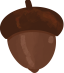
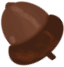
Refinado puntero bellota

diff --git a/La_Rata_Tostada_se_va_por_las_Ramas/Assets/Scripts/ChangeCursor.cs b/La_Rata_Tostada_se_va_por_las_Ramas/Assets/Scripts/ChangeCursor.cs
@@ -7,6 +7,6 @@ public class ChangeCursor : MonoBehaviour
     [SerializeField] private Texture2D cursor; 
     void Start()
     {
-        Cursor.SetCursor(cursor, Vector2.zero, CursorMode.ForceSoftware);
+        Cursor.SetCursor(cursor, new Vector2(6f, 4f), CursorMode.ForceSoftware);
     }
 }
